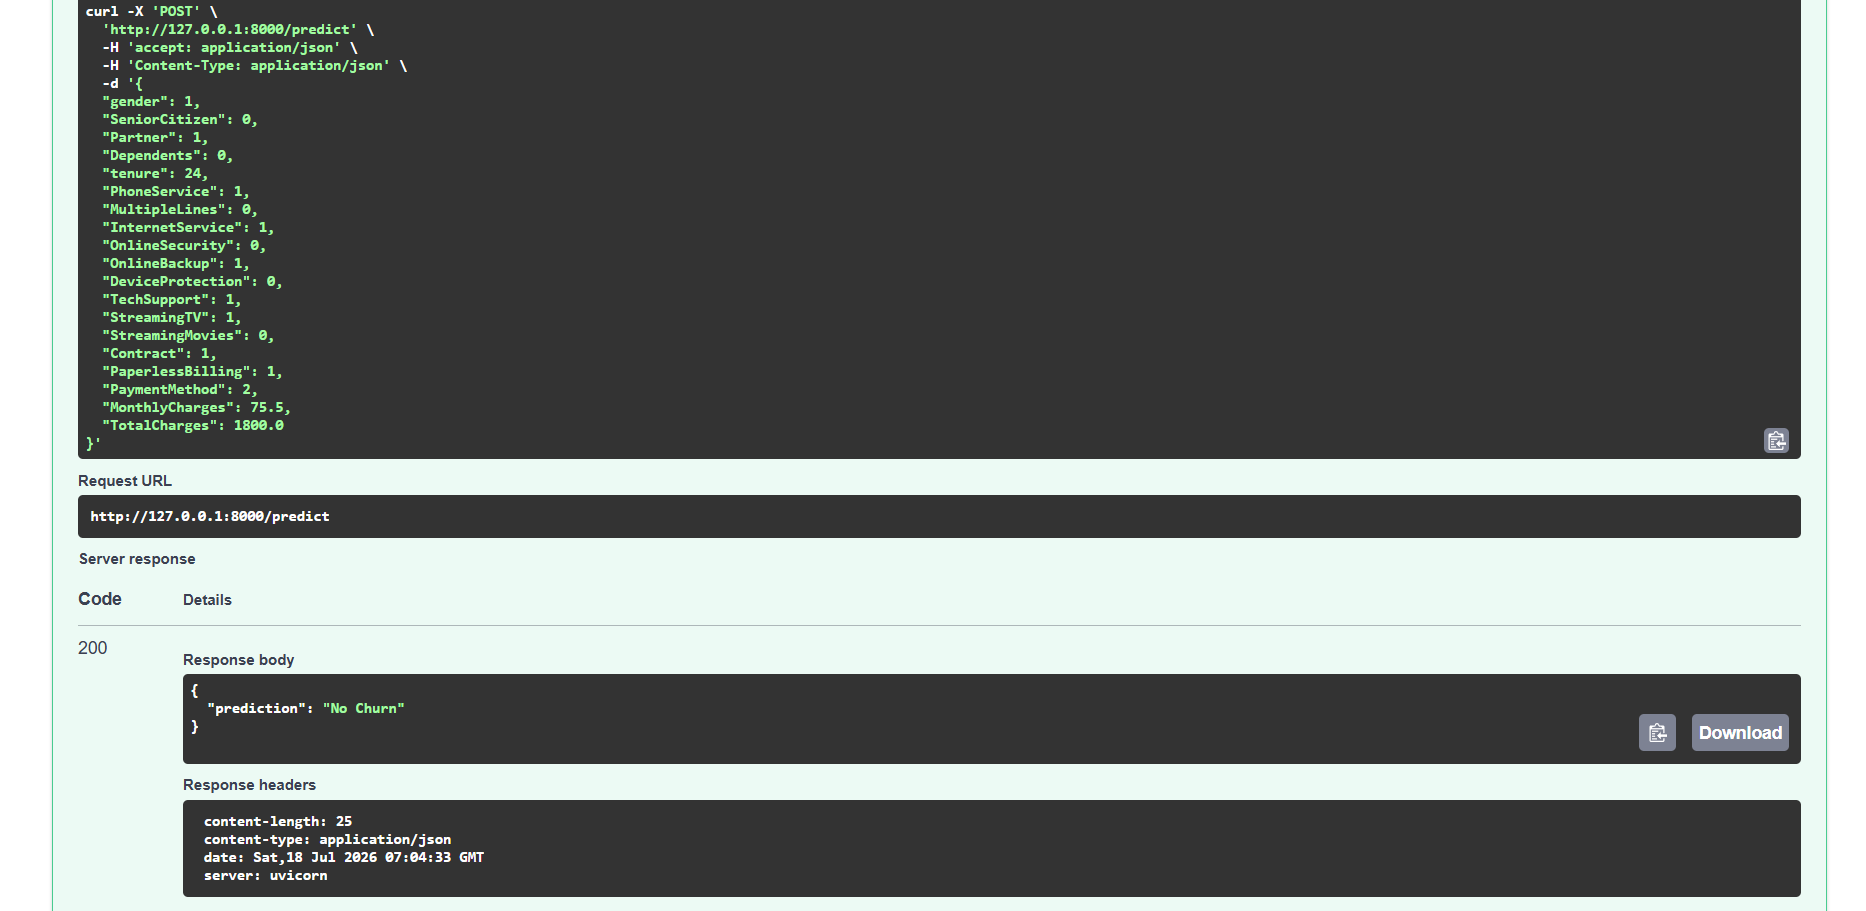
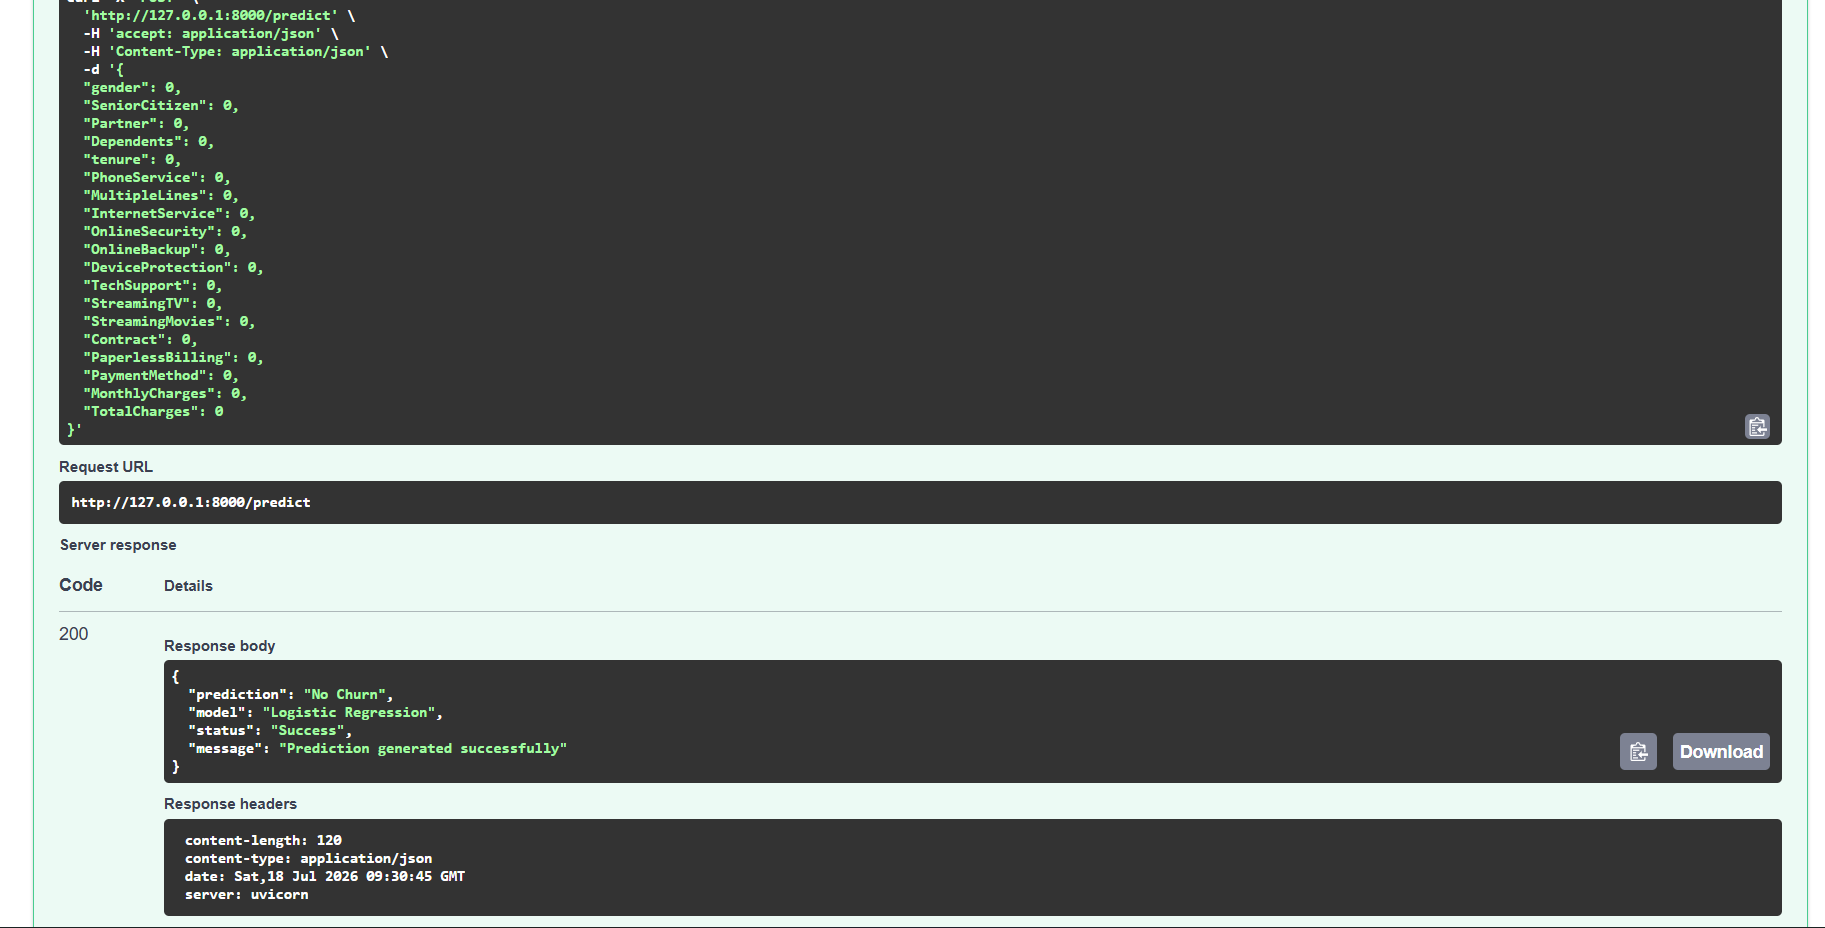
Updated API response and deployed Logistic Regression model

Changed region(s): [[0.0312, 0.0, 0.9995, 1.0]]

diff --git a/app.py b/app.py
@@ -46,9 +46,9 @@ def predict(customer: CustomerData):
     else:
         result = "No Churn"
 
-return {
-    "prediction": result,
-    "model": "Random Forest",
-    "status": "Success",
-    "message": "Prediction generated successfully"
-}
+    return {
+        "prediction": result,
+        "model": "Logistic Regression",
+        "status": "Success",
+        "message": "Prediction generated successfully"
+    }

diff --git a/train.py b/train.py
@@ -92,6 +92,6 @@ print("F1 Score :", f1_score(y_test, rf_pred))
 # -------------------------
 print("\nColumns used for training:")
 print(X.columns.tolist())
-joblib.dump(rf, "model.pkl")
+joblib.dump(lr, "model.pkl")
 
 print("\nModel saved as model.pkl")